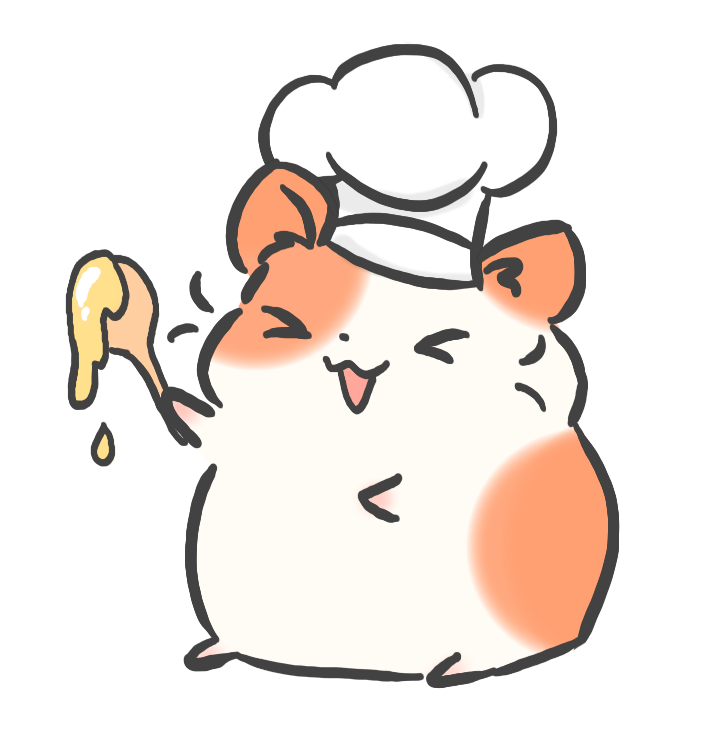
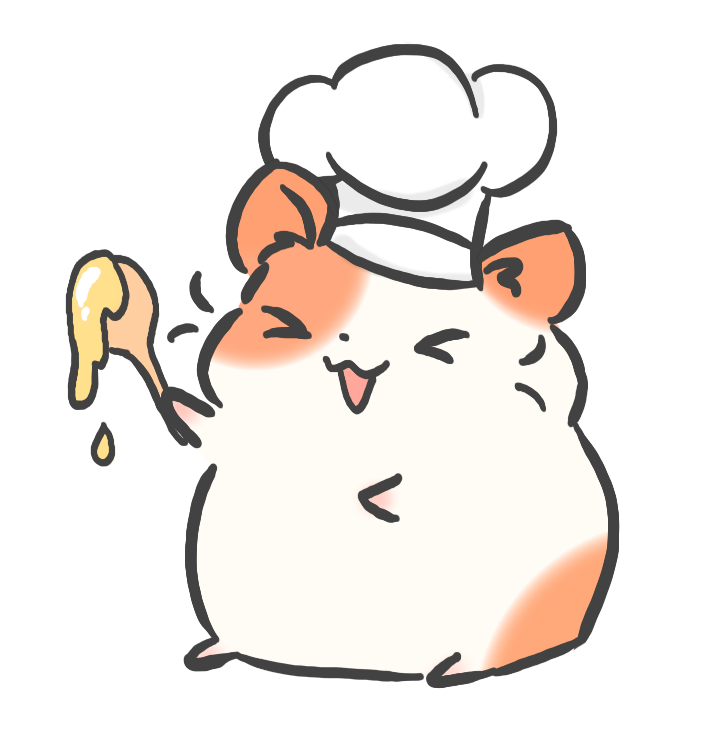
top hamster image

Changed region(s): [[0.6553, 0.5718, 0.8738, 0.933]]

diff --git a/recipe.html b/recipe.html
@@ -28,7 +28,7 @@
           <div class="header-bg name-height sidebar-header">
               <h3 class="fluid-header header-font shadow white">Recipe++</h3>
               <div class="peekinghamster hide">
-                  <img class = "hamster" src = "./images/recipehamster.png">
+                  <img class = "hamster" src = "./images/recipetophamster.png">
               </div>
           </div>
           

diff --git a/css/main.css b/css/main.css
@@ -265,9 +265,6 @@
         width: 100vw;
     }
     .peekinghamster{
-        width: 25%;
-        position: absolute;
-        bottom: 0;
         left: 70%;
     }
     .recipehamster{
